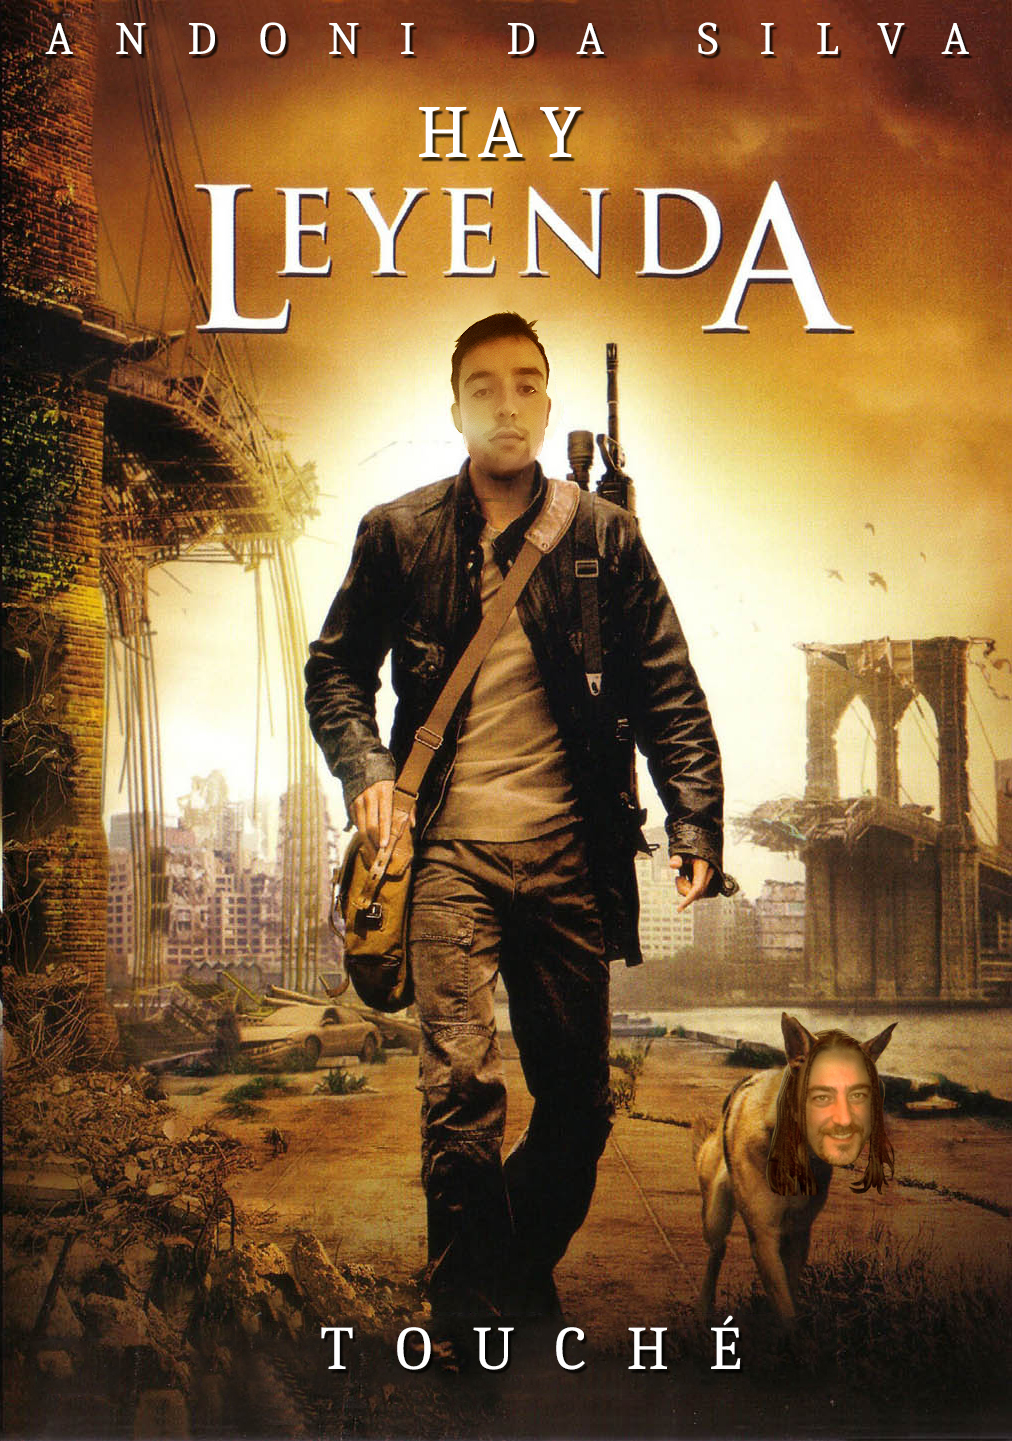
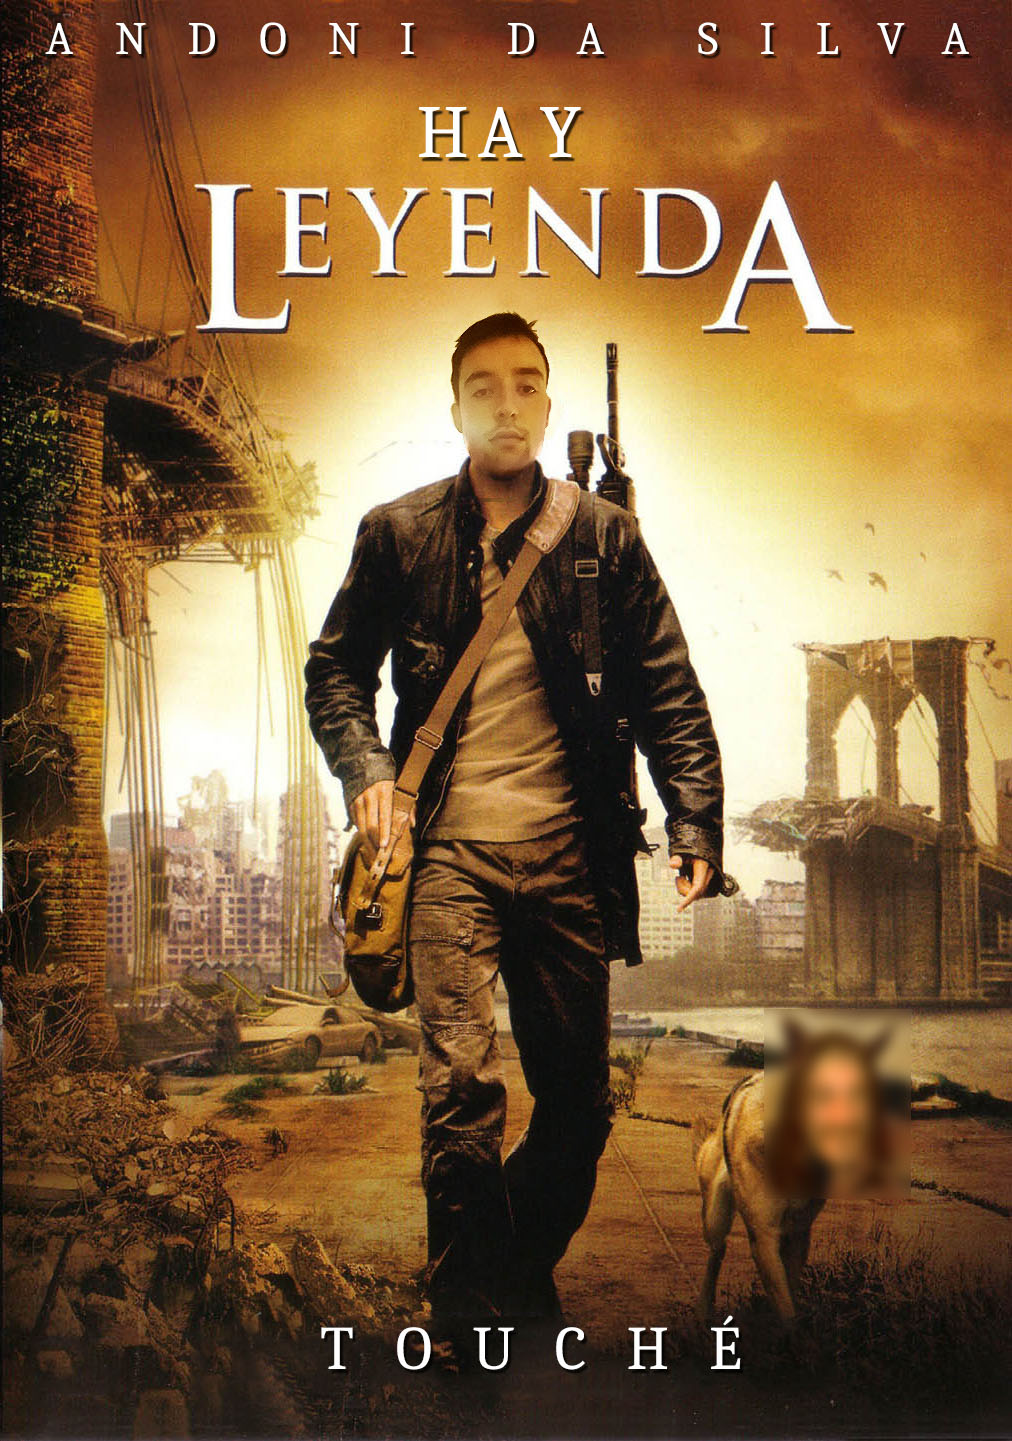
Fixed some important person face

Changed region(s): [[0.7352, 0.687, 0.919, 0.8432]]

diff --git a/style/style.css b/style/style.css
@@ -152,6 +152,9 @@ box-shadow: 0px 0px 5px 3px #CCCCCC;
 .alertify-logs {
     top: 60px;
     left: 10px;
+    width: 400px;
+    height: 300px;
+    font-size: 30px;
 }
 
 .boton-cuadrado{

diff --git a/catalogo.php b/catalogo.php
@@ -6,7 +6,13 @@
 	<meta name="viewport" content="width=device-width, initial-scale=1">
 	<link href="bootstrap/css/bootstrap.css" rel="stylesheet" />
 	<link href="style/style.css" rel="stylesheet" />
-	<!-- HTML5 shim and Respond.js for IE8 support of HTML5 elements and media queries -->
+  <script src="js/alertify/lib/alertify.min.js"> </script>
+  <link rel="stylesheet" href="js/alertify/themes/alertify.core.css" />
+  <link rel="stylesheet" href="js/alertify/themes/alertify.default.css" />
+
+
+
+  <!-- HTML5 shim and Respond.js for IE8 support of HTML5 elements and media queries -->
     <!--[if lt IE 9]>
       <script src="https://oss.maxcdn.com/html5shiv/3.7.2/html5shiv.min.js"></script>
       <script src="https://oss.maxcdn.com/respond/1.4.2/respond.min.js"></script>
@@ -23,42 +29,42 @@
      cabeceraCartelera();
      ?>
      
-   
-       <div class="col-md-2"> </div>
-       <div class="col-md-7 ">
-        <ul class="media-list">
 
-          <!-- Paneles de los cines -->
-          <?php
-          
-          $arrayPeliculas=Pelicula::mostrarPeliculas();
+     <div class="col-md-2"> </div>
+     <div class="col-md-7 ">
+      <ul class="media-list">
 
-          foreach($arrayPeliculas as $panelPelicula){
-            echo '<li class="media">';
-              echo '<div class="col-md-12 ">';
-                echo '<div class="well">';
-                  echo '<a class="media-left" href="ficha_pelicula.php?id='.$panelPelicula["idPelicula"].'">';
-                  if( substr($panelPelicula["foto"], 0,3) == "img"){
+        <!-- Paneles de los cines -->
+        <?php
 
-                    echo '<img src="'.$panelPelicula["foto"].'" alt="" height="140px" class="thumbnail">';
-                  }else{
-                    echo '<img src="img/movie_no_poster.jpg" alt="" height="140px"  class="thumbnail">';
+        $arrayPeliculas=Pelicula::mostrarPeliculas();
 
-                  }
-                  echo '</a>';  
-                  echo '<div class="media-body">';
-                    echo '<p><b>Nombre: </b>'.$panelPelicula["titulo"].'</p>';
-                    echo '<p><b>Genero: </b>'.$panelPelicula["genero"].'</p>';
-                    echo '<p><b>Año: </b>'.$panelPelicula["anho"].'</p>';
-                    echo '<p><b>Sinopsis: </b>'.$panelPelicula["sinopsis"].'</p>';
-                  echo '</div>';
+        foreach($arrayPeliculas as $panelPelicula){
+          echo '<li class="media">';
+          echo '<div class="col-md-12 ">';
+          echo '<div class="well">';
+          echo '<a class="media-left" href="ficha_pelicula.php?id='.$panelPelicula["idPelicula"].'">';
+          if( substr($panelPelicula["foto"], 0,3) == "img"){
 
-                echo '</div>';
-              echo '</div>';
-            echo '</li>';
+            echo '<img src="'.$panelPelicula["foto"].'" alt="" height="140px" class="thumbnail">';
+          }else{
+            echo '<img src="img/movie_no_poster.jpg" alt="" height="140px"  class="thumbnail">';
+
           }
+          echo '</a>';  
+          echo '<div class="media-body">';
+          echo '<p><b>Nombre: </b>'.$panelPelicula["titulo"].'</p>';
+          echo '<p><b>Genero: </b>'.$panelPelicula["genero"].'</p>';
+          echo '<p><b>Año: </b>'.$panelPelicula["anho"].'</p>';
+          echo '<p><b>Sinopsis: </b>'.$panelPelicula["sinopsis"].'</p>';
+          echo '</div>';
 
-          ?> 
+          echo '</div>';
+          echo '</div>';
+          echo '</li>';
+        }
+
+        ?> 
 
       </ul>
     </div>
@@ -108,7 +114,7 @@
               <tr ><td>Drama</td><td><input  class="pull-right" type="checkbox"> <span class="pull-right">&nbsp;</span></td></tr>
               <tr ><td>Fantasía</td><td><input  class="pull-right" type="checkbox"> <span class="pull-right">&nbsp;</span></td></tr>
               <tr ><td>Ficción</td><td><input  class="pull-right" type="checkbox"> <span class="pull-right">&nbsp;</span></td></tr>
-              <tr ><td>Pornografía</td><td><input  class="pull-right" type="checkbox"> <span class="pull-right">&nbsp;</span></td></tr>
+              <tr ><td>Pornografía</td><td><input  class="pull-right" type="checkbox" onclick="alertify.error('En que pinchas picaron?')"> <span class="pull-right">&nbsp;</span></td></tr>
               <tr ><td>Romántica</td><td><input  class="pull-right" type="checkbox"> <span class="pull-right">&nbsp;</span></td></tr>
               <tr ><td>Suspense</td><td><input  class="pull-right" type="checkbox"> <span class="pull-right">&nbsp;</span></td></tr>
               <tr ><td>Terror</td><td><input  class="pull-right" type="checkbox"> <span class="pull-right">&nbsp;</span></td></tr>

diff --git a/pantallaPrincipal.php b/pantallaPrincipal.php
@@ -98,11 +98,11 @@
 			</div>
 			<div class="col-sm-2">
 				<div class="" style="text-align:center">
-					<a href="ficha_pelicula.php" ><img src="img/peliculas/hobbit.jpg" alt=""  width="150px" class="vertical-peli-carousel"></a>
-					<a href="ficha_pelicula.php" ><img src="img/peliculas/hobbit.jpg" alt=""  width="150px" class="vertical-peli-carousel"></a>
-					<a href="ficha_pelicula.php" ><img src="img/peliculas/hobbit.jpg" alt=""  width="150px" class="vertical-peli-carousel"></a>
-					<a href="ficha_pelicula.php" ><img src="img/peliculas/hobbit.jpg" alt=""  width="150px" class="vertical-peli-carousel"></a>
-					<a href="ficha_pelicula.php" ><img src="img/peliculas/hobbit.jpg" alt=""  width="150px" class="vertical-peli-carousel"></a>
+					<a href="ficha_pelicula.php" ><img src="img/HayLeyenda" alt=""  width="150px" class="vertical-peli-carousel"></a>
+					<a href="ficha_pelicula.php" ><img src="img/HayLeyenda" alt=""  width="150px" class="vertical-peli-carousel"></a>
+					<a href="ficha_pelicula.php" ><img src="img/HayLeyenda" alt=""  width="150px" class="vertical-peli-carousel"></a>
+					<a href="ficha_pelicula.php" ><img src="img/HayLeyenda" alt=""  width="150px" class="vertical-peli-carousel"></a>
+					<a href="ficha_pelicula.php" ><img src="img/HayLeyenda" alt=""  width="150px" class="vertical-peli-carousel"></a>
 
 				</div>
 			</div>
@@ -118,23 +118,23 @@
 	<script src="js/ie10-viewport-bug-workaround.js"></script>
 	<script type="text/javascript" src="js/jssor.slider.min.js"></script>
 	<footer>
-     <section class="container" style="padding:10px">
-      <div class="btn-group dropup pull-rigth ">
-        <button type="button" class="btn btn-default">Idioma</button>
-        <button type="button" class="btn btn-info dropdown-toggle" data-toggle="dropdown" aria-expanded="true">
-          &nbsp
-          <span class="caret"></span>
-          <span class="sr-only">Toggle Dropdown</span>
-          &nbsp
-        </button>
-        <ul class="dropdown-menu" role="menu">
-          <li><a href="#">Gallego</a></li>
-          <li><a href="#">Inglés</a></li>
-          <li class="divider"></li>
-          <li><a href="#">Español</a></li>
-        </ul>
-      </div>
-    </section>
-    </footer>
+		<section class="container" style="padding:10px">
+			<div class="btn-group dropup pull-rigth ">
+				<button type="button" class="btn btn-default">Idioma</button>
+				<button type="button" class="btn btn-info dropdown-toggle" data-toggle="dropdown" aria-expanded="true">
+					&nbsp
+					<span class="caret"></span>
+					<span class="sr-only">Toggle Dropdown</span>
+					&nbsp
+				</button>
+				<ul class="dropdown-menu" role="menu">
+					<li><a href="#">Gallego</a></li>
+					<li><a href="#">Inglés</a></li>
+					<li class="divider"></li>
+					<li><a href="#">Español</a></li>
+				</ul>
+			</div>
+		</section>
+	</footer>
 </body>
 </html>

diff --git a/index.php b/index.php
@@ -259,72 +259,22 @@
 
 <section class="container" style="padding:10px">
   <div class="col-sm-3">
-    <img src="img/peliculas/sdla.jpg" class="peli" />
+    <img src="img/HayLeyenda.jpg" class="peli" />
   </div>
   <div class="col-sm-3">
-    <img src="img/peliculas/sdla.jpg" class="peli" />
+    <img src="img/HayLeyenda.jpg" class="peli" />
 
   </div>
   <div class="col-sm-3">
-    <img src="img/peliculas/sdla.jpg" class="peli" />
+    <img src="img/HayLeyenda.jpg" class="peli" />
 
   </div>
   <div class="col-sm-3">
-    <img src="img/peliculas/sdla.jpg" class="peli" />
-
-  </div>
-</section>
-<section class="container" style="padding:10px">
-  <div class="col-sm-3">
-    <img src="img/peliculas/sdla.jpg" class="peli" />
-  </div>
-  <div class="col-sm-3">
-    <img src="img/peliculas/sdla.jpg" class="peli" />
-
-  </div>
-  <div class="col-sm-3">
-    <img src="img/peliculas/sdla.jpg" class="peli" />
-
-  </div>
-  <div class="col-sm-3">
-    <img src="img/peliculas/sdla.jpg" class="peli" />
+    <img src="img/HayLeyenda.jpg" class="peli" />
 
   </div>
 </section>
-<section class="container" style="padding:10px">
-  <div class="col-sm-3">
-    <img src="img/peliculas/sdla.jpg" class="peli" />
-  </div>
-  <div class="col-sm-3">
-    <img src="img/peliculas/sdla.jpg" class="peli" />
 
-  </div>
-  <div class="col-sm-3">
-    <img src="img/peliculas/sdla.jpg" class="peli" />
-
-  </div>
-  <div class="col-sm-3">
-    <img src="img/peliculas/sdla.jpg" class="peli" />
-
-  </div>
-</section>
-<section class="container" style="padding:10px">
-  <div class="col-sm-3">
-    <img src="img/peliculas/sdla.jpg" class="peli" />
-  </div>
-  <div class="col-sm-3">
-    <img src="img/peliculas/sdla.jpg" class="peli" />
-
-  </div>
-  <div class="col-sm-3">
-    <img src="img/peliculas/sdla.jpg" class="peli" />
-
-  </div>
-  <div class="col-sm-3">
-    <img src="img/peliculas/sdla.jpg" class="peli" />
-
-  </div>
-</section>
 
 <footer>
  <section class="container" style="padding:10px">
